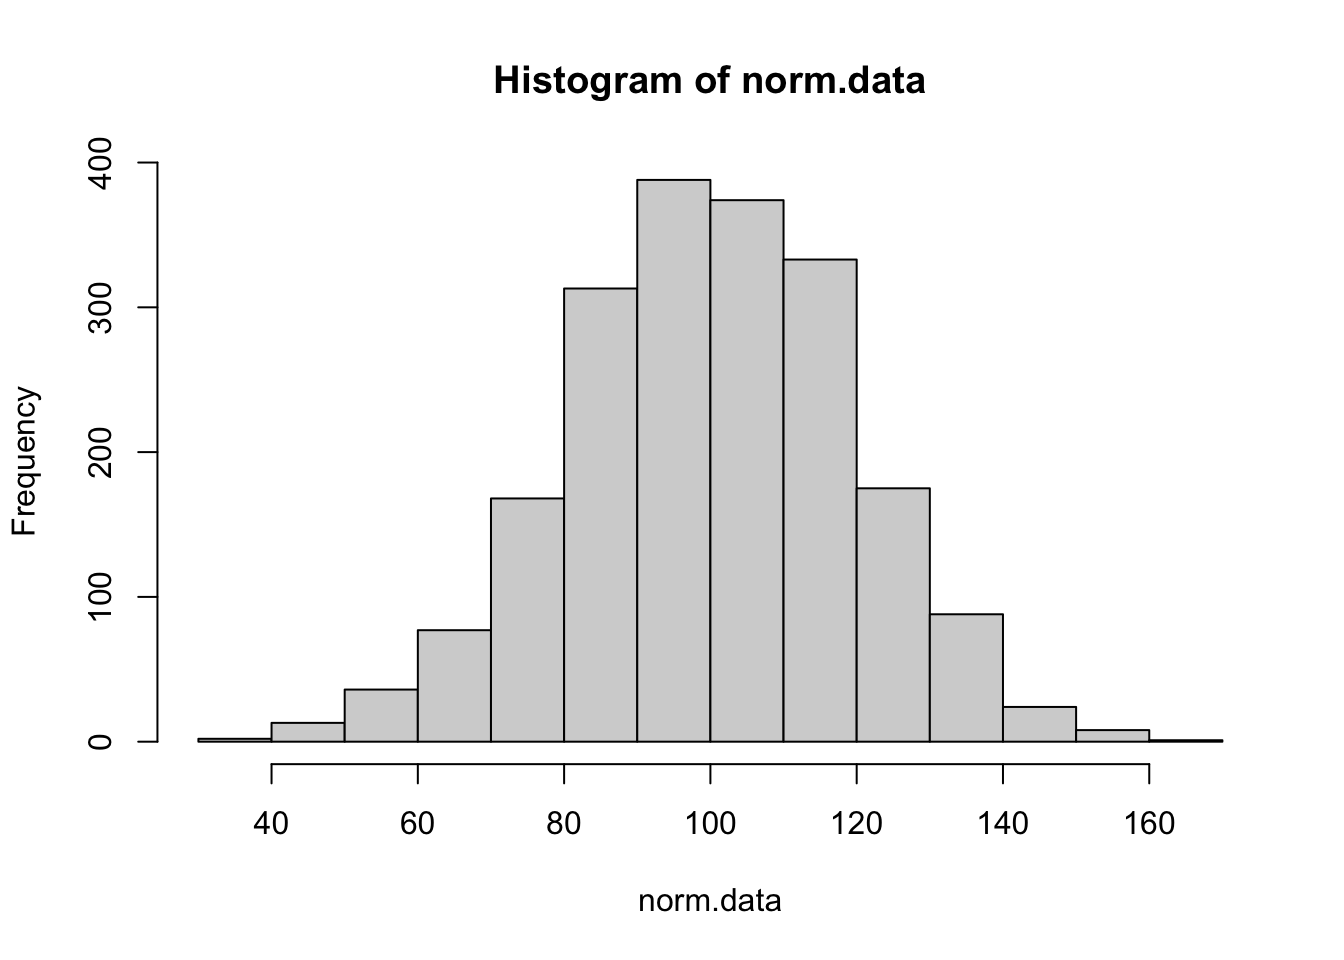
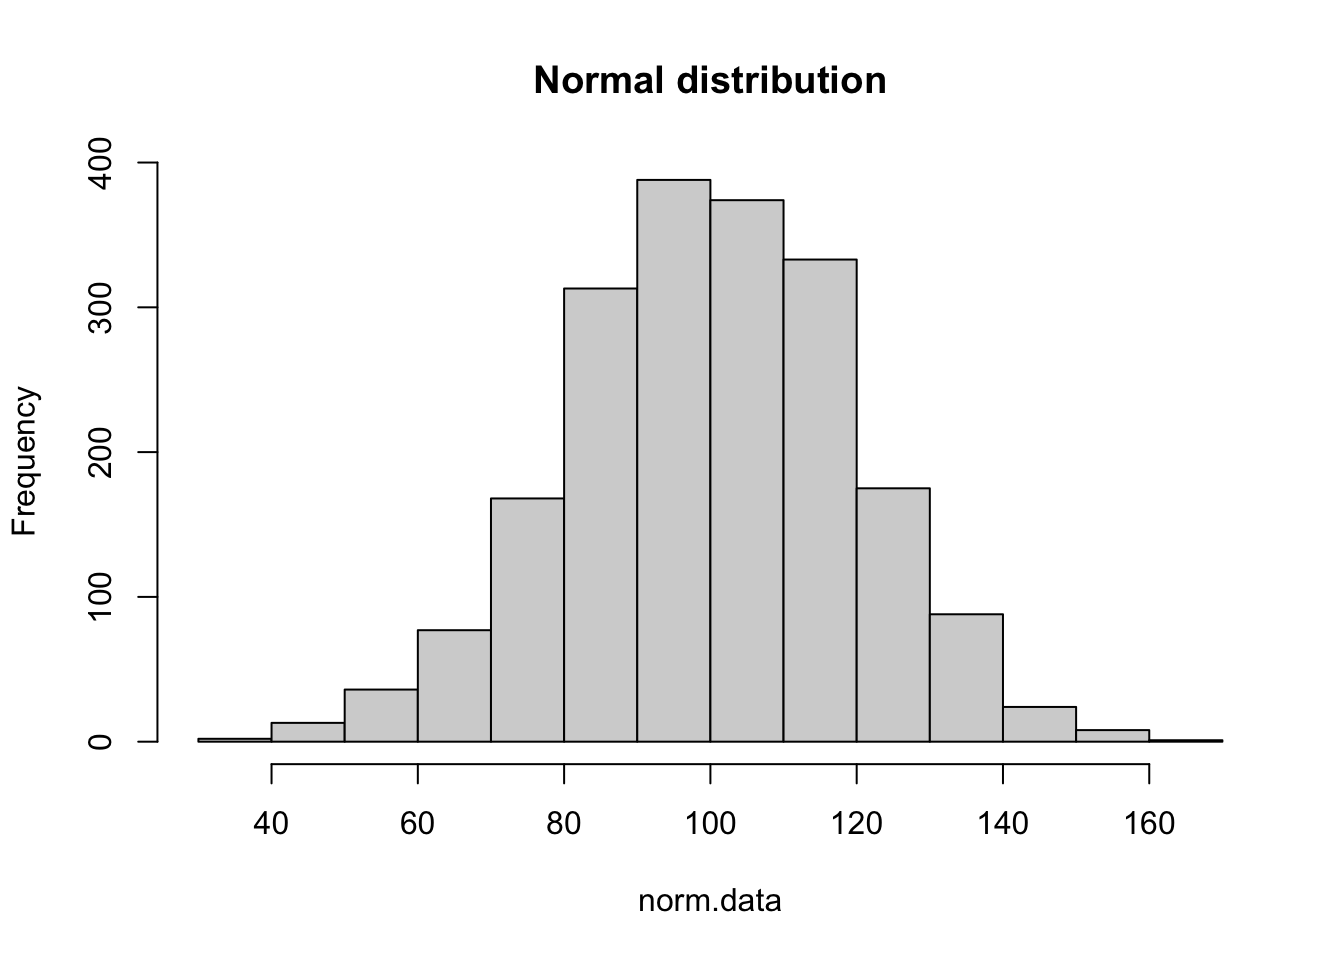
Updating transformation tutorial

Changed region(s): [[0.3438, 0.0625, 0.6875, 0.125]]

diff --git a/docs/tutorials/transformations/index.html b/docs/tutorials/transformations/index.html
@@ -169,6 +169,7 @@ code span.wa { color: #60a0b0; font-weight: bold; font-style: italic; } /* Warni
    
   <ul>
   <li><a href="#kvadratrots-transformering" id="toc-kvadratrots-transformering" class="nav-link active" data-scroll-target="#kvadratrots-transformering">Kvadratrots-transformering</a></li>
+  <li><a href="#log-transformering" id="toc-log-transformering" class="nav-link" data-scroll-target="#log-transformering">log-transformering</a></li>
   </ul>
 </nav>
     </div>
@@ -198,7 +199,7 @@ code span.wa { color: #60a0b0; font-weight: bold; font-style: italic; } /* Warni
 <summary>Code</summary>
 <div class="sourceCode cell-code" id="cb1"><pre class="sourceCode r code-with-copy"><code class="sourceCode r"><span id="cb1-1"><a href="#cb1-1" aria-hidden="true" tabindex="-1"></a><span class="fu">set.seed</span> (<span class="dv">12768</span>)</span>
 <span id="cb1-2"><a href="#cb1-2" aria-hidden="true" tabindex="-1"></a>norm.data<span class="ot">&lt;-</span><span class="fu">rnorm</span>(<span class="at">n =</span> <span class="dv">2000</span>, <span class="at">mean =</span> <span class="dv">100</span>, <span class="at">sd =</span> <span class="dv">20</span>)</span>
-<span id="cb1-3"><a href="#cb1-3" aria-hidden="true" tabindex="-1"></a><span class="fu">hist</span>(norm.data)</span></code><button title="Copy to Clipboard" class="code-copy-button"><i class="bi"></i></button></pre></div>
+<span id="cb1-3"><a href="#cb1-3" aria-hidden="true" tabindex="-1"></a><span class="fu">hist</span>(norm.data, <span class="at">main =</span> <span class="st">"Normal distribution"</span>)</span></code><button title="Copy to Clipboard" class="code-copy-button"><i class="bi"></i></button></pre></div>
 </details>
 <div class="cell-output-display">
 <p><img src="index_files/figure-html/unnamed-chunk-1-1.png" class="img-fluid" width="672"></p>
@@ -206,19 +207,25 @@ code span.wa { color: #60a0b0; font-weight: bold; font-style: italic; } /* Warni
 </div>
 <section id="kvadratrots-transformering" class="level2">
 <h2 class="anchored" data-anchor-id="kvadratrots-transformering">Kvadratrots-transformering</h2>
-<p>En vanlig typ av data är räknedata, vi kan ha räknat antalet individer, antalet frön eller avkommor. Det är en datatyp som enbart innehåller heltal, och som inte kan vara negativ (man säger att den följer en <strong>poisson-fördelning</strong> och inte en normalfördelning). Om man har ett lågt medelvärde (lägre än 20) så kommer man få en skev fördelning (se exemplet nedan). Vi ser att variationen är stööre för höga än för låga värden (vi säger att förelningen är höger-skev, eller right-skewed).</p>
+<p>En vanlig typ av transformering är kvadratrots-transformering, vilket man kan överväga i följande fall</p>
+<ul>
+<li><p>Data är höger-skevt (se beskrivning nedan). Vid extremt höger-skevt data kan man överväga log-transformering</p></li>
+<li><p>Man har räknedata med ett medelvärde mindre än ca 20</p></li>
+<li><p>Variansen ökar med medelvärdet (vanligt om man har räknedata)</p></li>
+</ul>
+<p>En vanlig typ av data är <strong>räknedata</strong> (*count data*), vi kan ha räknat antalet individer, antalet frön eller avkommor. Det är en datatyp som enbart innehåller heltal, och som inte kan vara negativ (man säger att den följer en <strong>poisson-fördelning</strong> och inte en normalfördelning). Om man har ett lågt medelvärde (lägre än 20) så kommer man få en skev fördelning (se exemplet nedan). Vi simulerar räknedata från en posiion-fördelning och gör ett histogram nedan. Vi ser att variationen är störe för höga än för låga värden (vi säger att förelningen är höger-skev, eller right-skewed).</p>
 <div class="cell">
 <details>
 <summary>Code</summary>
 <div class="sourceCode cell-code" id="cb2"><pre class="sourceCode r code-with-copy"><code class="sourceCode r"><span id="cb2-1"><a href="#cb2-1" aria-hidden="true" tabindex="-1"></a><span class="fu">set.seed</span> (<span class="dv">12768</span>)</span>
 <span id="cb2-2"><a href="#cb2-2" aria-hidden="true" tabindex="-1"></a>poisson.data<span class="ot">&lt;-</span><span class="fu">rpois</span>(<span class="at">n =</span> <span class="dv">2000</span>, <span class="at">lambda =</span> <span class="dv">4</span>)</span>
-<span id="cb2-3"><a href="#cb2-3" aria-hidden="true" tabindex="-1"></a><span class="fu">hist</span>(poisson.data)</span></code><button title="Copy to Clipboard" class="code-copy-button"><i class="bi"></i></button></pre></div>
+<span id="cb2-3"><a href="#cb2-3" aria-hidden="true" tabindex="-1"></a><span class="fu">hist</span>(poisson.data, <span class="at">col =</span> <span class="st">"red"</span>,<span class="at">main =</span> <span class="st">"Histogram of Poisson data with mean of 4"</span>)</span></code><button title="Copy to Clipboard" class="code-copy-button"><i class="bi"></i></button></pre></div>
 </details>
 <div class="cell-output-display">
 <p><img src="index_files/figure-html/unnamed-chunk-2-1.png" class="img-fluid" width="672"></p>
 </div>
 </div>
-<p>Eftersom våra statistiska test förutsätter att antingen data eller residualerna är normalfördelade kommer de att få problem med den här typen av data. Vi kommer att få p-värden, men vi kan inte lita på dem eftersom förutsättningarna för modellen inte uppfylls. Som tur är kan vi uppfylla kraven på normalfördelat data/residualer genom att transformera vår responsvariabel!</p>
+<p>Eftersom våra statistiska test förutsätter att antingen data eller residualerna är normalfördelade kommer testen att få problem med den här typen av data. Vi kommer att få p-värden, men vi kan inte lita på dem eftersom förutsättningarna för modellen inte uppfylls. Som tur är kan vi uppfylla kraven på normalfördelat data/residualer genom att transformera vår responsvariabel!</p>
 <p>Den transformationen man använder sig av om man har räknadata med låga medelvärden och ett histogram som är höger-skevt är <em>kvadratrots-transformering</em>.</p>
 <p>Transformeringen är enkel, vi drar kvadratroten ur alla tal i vår responsvariabel. Det gör att alla tal blir mindre, men ju större talet är desto större förminskning får det, och vi blir av med höger-skevheten. Vi kan illustrera det genom att se hur mycket ett visst tal minskar om vi drar roten ur det.</p>
 <table class="table">
@@ -244,13 +251,82 @@ code span.wa { color: #60a0b0; font-weight: bold; font-style: italic; } /* Warni
 <div class="cell">
 <details>
 <summary>Code</summary>
-<div class="sourceCode cell-code" id="cb3"><pre class="sourceCode r code-with-copy"><code class="sourceCode r"><span id="cb3-1"><a href="#cb3-1" aria-hidden="true" tabindex="-1"></a><span class="fu">hist</span>(<span class="fu">sqrt</span>(poisson.data))</span></code><button title="Copy to Clipboard" class="code-copy-button"><i class="bi"></i></button></pre></div>
+<div class="sourceCode cell-code" id="cb3"><pre class="sourceCode r code-with-copy"><code class="sourceCode r"><span id="cb3-1"><a href="#cb3-1" aria-hidden="true" tabindex="-1"></a><span class="fu">hist</span>(<span class="fu">sqrt</span>(poisson.data),<span class="at">col =</span> <span class="st">"red"</span>, <span class="at">main =</span> <span class="st">"Histogram of poisson data after square root transformation"</span>)</span></code><button title="Copy to Clipboard" class="code-copy-button"><i class="bi"></i></button></pre></div>
 </details>
 <div class="cell-output-display">
 <p><img src="index_files/figure-html/unnamed-chunk-3-1.png" class="img-fluid" width="672"></p>
 </div>
 </div>
-<p>Som du ser ovan blev histogrammet mycket mer lik en normalfördelning. Det innebär att om vi kvadratrot-transformerar vår responsvariabel så kan vi använda våra vanliga statistiska tester (t-test, regression, anova etc) trots att vår data inte var normalfördelad innan transformeringen.</p>
+<p>Nu blev histogrammet mycket mer lik en normalfördelning. Det innebär att om vi kvadratrot-transformerar vår responsvariabel så kan vi använda våra vanliga statistiska tester (t-test, regression, anova etc) trots att vår data inte var normalfördelad innan transformeringen.</p>
+<p>Observera att om vårt data redan är normalfördelat så förstör en kvadratrots-transformering den fördelningen. Vi skall alltså bara använda den om vi behöver det.</p>
+<p>Problemet med höger-skevhet är vanligast om man har låga medelvärden. Är medelvärdet högre än ca 20 antar fördelningen något som kan approximeras till en normalfördeln. Då behövs ingen transformering. Vi kan illustrera det nedan, nu har vi räknedata med ett medelvärde på 35.</p>
+<div class="cell">
+<details>
+<summary>Code</summary>
+<div class="sourceCode cell-code" id="cb4"><pre class="sourceCode r code-with-copy"><code class="sourceCode r"><span id="cb4-1"><a href="#cb4-1" aria-hidden="true" tabindex="-1"></a><span class="fu">set.seed</span> (<span class="dv">12768</span>)</span>
+<span id="cb4-2"><a href="#cb4-2" aria-hidden="true" tabindex="-1"></a>poisson.data.larger.mean<span class="ot">&lt;-</span><span class="fu">rpois</span>(<span class="at">n =</span> <span class="dv">2000</span>, <span class="at">lambda =</span> <span class="dv">35</span>)</span>
+<span id="cb4-3"><a href="#cb4-3" aria-hidden="true" tabindex="-1"></a><span class="fu">hist</span>(poisson.data.larger.mean, <span class="at">col =</span> <span class="st">"red"</span>, <span class="at">main =</span> <span class="st">"Histogram of Poisson data with mean of 35"</span>)</span></code><button title="Copy to Clipboard" class="code-copy-button"><i class="bi"></i></button></pre></div>
+</details>
+<div class="cell-output-display">
+<p><img src="index_files/figure-html/unnamed-chunk-4-1.png" class="img-fluid" width="672"></p>
+</div>
+</div>
+<p>Som vi ser så är det knappt någon skevhet. Testa själv att sätta medelvärdet (kallas <code>lambda</code>) till 100 så ser det väldigt bra ut.</p>
+</section>
+<section id="log-transformering" class="level2">
+<h2 class="anchored" data-anchor-id="log-transformering">log-transformering</h2>
+<p>En annan vanlig typ av transformering är log-transformering, vilket man kan överväga i följande fall</p>
+<ul>
+<li><p>Data är extremt höger-skevt (se plot nedan).</p></li>
+<li><p>Data beskriver en multiplikativ eller exponentiell process, till exempel tillväxt eller ibland vikt</p></li>
+<li><p>Variansen ökar kraftigt med medelvärdet</p></li>
+</ul>
+<p>Vi börjar med att simulera data från en exponentiell fördelning och se på histogrammet. Som du ser är datat kraftigt höger-skevt med några extrema värden som är mycket större än de övriga.</p>
+<div class="cell">
+<details>
+<summary>Code</summary>
+<div class="sourceCode cell-code" id="cb5"><pre class="sourceCode r code-with-copy"><code class="sourceCode r"><span id="cb5-1"><a href="#cb5-1" aria-hidden="true" tabindex="-1"></a><span class="fu">set.seed</span> (<span class="dv">12768</span>)</span>
+<span id="cb5-2"><a href="#cb5-2" aria-hidden="true" tabindex="-1"></a>exp.data<span class="ot">&lt;-</span><span class="fu">rlnorm</span>(<span class="at">n =</span> <span class="dv">50</span>, <span class="dv">3</span>,<span class="dv">1</span>)</span>
+<span id="cb5-3"><a href="#cb5-3" aria-hidden="true" tabindex="-1"></a><span class="fu">hist</span>(exp.data, <span class="at">main=</span><span class="st">"Histogram of exponential data"</span>,<span class="at">col=</span><span class="st">"blue"</span>)</span></code><button title="Copy to Clipboard" class="code-copy-button"><i class="bi"></i></button></pre></div>
+</details>
+<div class="cell-output-display">
+<p><img src="index_files/figure-html/unnamed-chunk-5-1.png" class="img-fluid" width="672"></p>
+</div>
+</div>
+<p>För att analysera den här typen av data och kunna lite på de p-värden vi får i vår analys behöver vi <strong>log-transformera</strong> vår responsvariabel. Vi gör det med funktionen <code>log()</code>.</p>
+<p>På samma sätt som kvadrat-rots-transformering så minskar log-transformeringen höga tal mer än låga tal, vilket ger en jämnare fördelning. Log-transformeringen är dock ännu kraftigare, vilket vi kan se i tabellen nedan.</p>
+<table class="table">
+<thead>
+<tr class="header">
+<th>Tal</th>
+<th>Logaritmen av talet</th>
+<th>Hur mycket minskar talet</th>
+</tr>
+</thead>
+<tbody>
+<tr class="odd">
+<td>2</td>
+<td>0.69</td>
+<td>1.31</td>
+</tr>
+<tr class="even">
+<td>10</td>
+<td>2.30</td>
+<td>7.70</td>
+</tr>
+</tbody>
+</table>
+<p>Vi tittar på ett histogram när vi log-transformerat vår data.</p>
+<div class="cell">
+<details>
+<summary>Code</summary>
+<div class="sourceCode cell-code" id="cb6"><pre class="sourceCode r code-with-copy"><code class="sourceCode r"><span id="cb6-1"><a href="#cb6-1" aria-hidden="true" tabindex="-1"></a><span class="fu">hist</span>(<span class="fu">log</span>(exp.data),<span class="at">col=</span><span class="st">"blue"</span>, <span class="at">main=</span><span class="st">"Histogram of exponential data after log transformation"</span>)</span></code><button title="Copy to Clipboard" class="code-copy-button"><i class="bi"></i></button></pre></div>
+</details>
+<div class="cell-output-display">
+<p><img src="index_files/figure-html/unnamed-chunk-6-1.png" class="img-fluid" width="672"></p>
+</div>
+</div>
+<p>Som vi ser så gör log-transformeringen att vårt kraftigt höger-skeva data antar en normalfördelning. Notera åter igen att vi inte skall log-transformera data som redan är normalfördelat, då förstör vi en bra fördelning.</p>
 
 
 </section>
